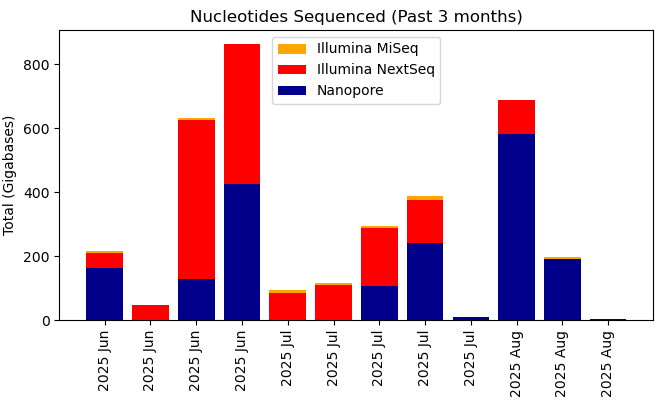
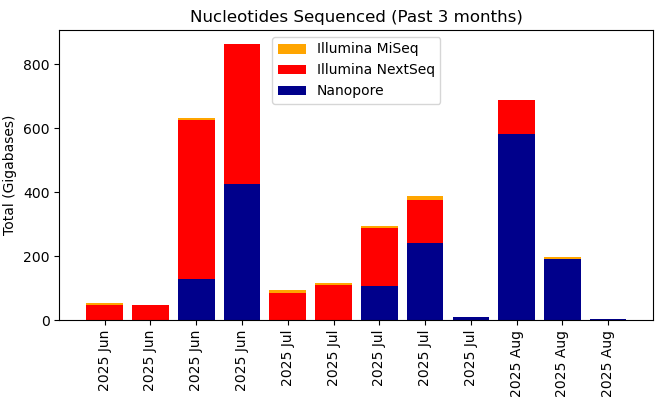
Your commit message here

Changed region(s): [[0.1212, 0.63, 0.2121, 0.81]]

diff --git a/krona/cgs.html b/krona/cgs.html
@@ -52,8 +52,8 @@ body {
   flex-direction: column;
 }
 </style>
-<H1>Genomics Facility Status: 07:00:16, 26/08/2025</H1>
-<marquee behavior="scroll" scrollamount="20" direction="left" bgcolor="lightgrey">CGGTTAAATCCAAAACGGCCGAAGCCTGAATGAGCTTAATAGAGGCCAAAGCGGTCTGGAAACGTACTGATTGTTCAGTAACTTGACTCATGATTTCTTACCTATTAGTGGTTGAACAGCATCGGACTCAGATAGTAATCCACGCTCTTTTAAAATGTCAACAAGAGAATCTCTACCATGAACAAAATGTGACTCATATCTAAACCAGAGATCGGAAGAGCGGTTCAGCAGGAATGCCGAGACCGATCTCG</marquee>
+<H1>Genomics Facility Status: 07:00:26, 27/08/2025</H1>
+<marquee behavior="scroll" scrollamount="20" direction="left" bgcolor="lightgrey">ATTAGTGGTTGAACAGCATCGGACTCAGATAGTAATCCACGCTCTTTTAAAATGTCAACAAGAGAATCTCTACCATGAACAAAATGTGACTCATATCTAAACCAGTCCTTGACGAACGTGCCAAGCATATTAAGCCACTTCTCCTCATCCAACGCGTCAGTTTTTGACAGAATCGTTAGTTGATGGCGAAAGGTCGCAAAGTAAGAGCTTCTCGAGCTGCGCAAGGATAGGTCGAATTTTCTCATTTTCCG</marquee>
 <TABLE BORDER=0><TR><TD><TABLE class="styled-table"><H3>GigaBases Sequenced</H3>
-<TR><TD><b>Platform</b></TD><TD><b>Week</b></TD><TD><b>Month</b></TD><TD><b>Year</b></TD><TD><b>Total</b></TD></TR><TR><TD>Illumina MiSeq</TD><TD>0.77</TD><TD>8.48</TD><TD>266.76</TD><TD>266.76</TD></TR><TR><TD>Illumina NextSeq</TD><TD>0.0</TD><TD>106.08</TD><TD>4383.51</TD><TD>4383.51</TD></TR><TR><TD>Nanopore PromethION</TD><TD>3.07</TD><TD>909.64</TD><TD>4952.22</TD><TD>6630.78</TD></TR></TABLE></TD><TD><IMG SRC="fig1.png"><IMG SRC="fig2.png"></TD></TR><TR><TD><H3>No. Samples (No. Experiments)</H3>
-<TABLE class="styled-table"><TR><TD><b>Platform</b></TD><TD><b>Week</b></TD><TD><b>Month</b></TD><TD><b>Year</b></TD><TD><b>Total</b></TD></TR><TR><TD>Illumina MiSeq</TD><TD>26 (3)</TD><TD>61 (4)</TD><TD>1347 (41)</TD><TD>1347 (41)</TD></TR><TR><TD>Illumina NextSeq</TD><TD>0 (0)</TD><TD>97 (3)</TD><TD>1326 (46)</TD><TD>1326 (46)</TD></TR><TR><TD>Nanopore PromethION</TD><TD>3 (2)</TD><TD>32 (16)</TD><TD>305 (131)</TD><TD>564 (191)</TD></TR></TABLE></TD><TD><IMG SRC="fig4.png"></TD></TR></TABLE></HTML>
+<TR><TD><b>Platform</b></TD><TD><b>Week</b></TD><TD><b>Month</b></TD><TD><b>Year</b></TD><TD><b>Total</b></TD></TR><TR><TD>Illumina MiSeq</TD><TD>0.34</TD><TD>8.48</TD><TD>266.76</TD><TD>266.76</TD></TR><TR><TD>Illumina NextSeq</TD><TD>0.0</TD><TD>106.08</TD><TD>4383.51</TD><TD>4383.51</TD></TR><TR><TD>Nanopore PromethION</TD><TD>3.07</TD><TD>909.64</TD><TD>4952.22</TD><TD>6630.78</TD></TR></TABLE></TD><TD><IMG SRC="fig1.png"><IMG SRC="fig2.png"></TD></TR><TR><TD><H3>No. Samples (No. Experiments)</H3>
+<TABLE class="styled-table"><TR><TD><b>Platform</b></TD><TD><b>Week</b></TD><TD><b>Month</b></TD><TD><b>Year</b></TD><TD><b>Total</b></TD></TR><TR><TD>Illumina MiSeq</TD><TD>14 (2)</TD><TD>61 (4)</TD><TD>1347 (41)</TD><TD>1347 (41)</TD></TR><TR><TD>Illumina NextSeq</TD><TD>0 (0)</TD><TD>97 (3)</TD><TD>1326 (46)</TD><TD>1326 (46)</TD></TR><TR><TD>Nanopore PromethION</TD><TD>3 (2)</TD><TD>32 (16)</TD><TD>305 (131)</TD><TD>564 (191)</TD></TR></TABLE></TD><TD><IMG SRC="fig4.png"></TD></TR></TABLE></HTML>
